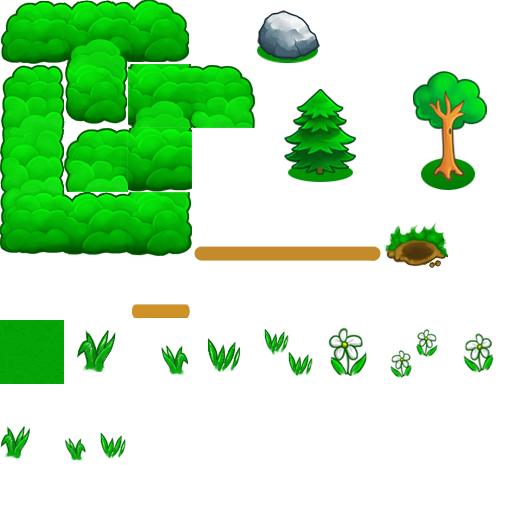
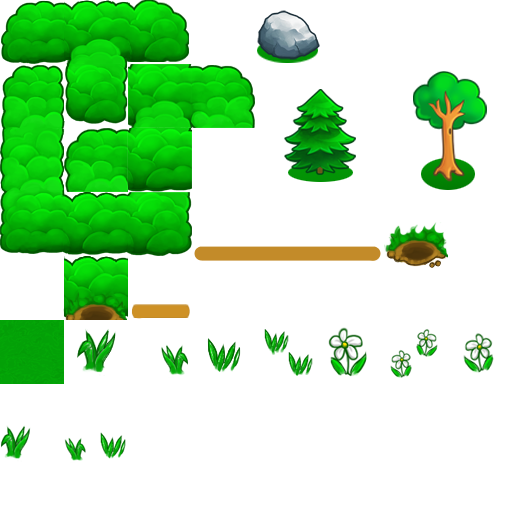
holes remake

Changed region(s): [[0.125, 0.5, 0.25, 0.625]]

diff --git a/megafoxhunt-server/src/net/megafox/game/GameSimulation.java b/megafoxhunt-server/src/net/megafox/game/GameSimulation.java
@@ -57,9 +57,6 @@ public class GameSimulation {
 	
 	private ArrayList<Entity> pickups;
 	public int getPickupsAmount(){return pickups.size();}
-	
-	private ArrayList<Entity> holes;
-	
 	public PlayerContainer playerContainer;
 
 	private Random random;
@@ -78,7 +75,6 @@ public class GameSimulation {
 		berries = new ArrayList<>();
 		powerups = new ArrayList<>();
 		pickups = new ArrayList<>();
-		holes = new ArrayList<>();
 		random = new Random();
 		timer = new Timer();
 	}
@@ -195,10 +191,6 @@ public class GameSimulation {
 	public void addPickupToRemove(PickupItem item){
 		removable.add(item);
 		gameMap.removeEntity(item);
-	}	
-	public void addHole(Hole hole) {
-		holes.add(hole);
-		playerContainer.sendObjectToAll(new AddHole(hole.getId(), hole.getX(), hole.getY()), hole.getVisibility());
 	}
 	
 	public void addHoleToRemove(Hole hole) {
@@ -291,37 +283,25 @@ public class GameSimulation {
 			addPickupToRemove(item);	
 		}
 	}
-	public void goToHole(PlayerConnection connection) {
-		if (connection.getEntity() instanceof Chased) {
-			connection.setGoInHole(true);
-			Entity playerEntity = connection.getEntity();
-			Entity targetEntity = gameMap.getEntity((int)playerEntity.getX(), (int)playerEntity.getY());
-			if (targetEntity instanceof Hole) {
-				holeCollisionDetected(playerEntity, (Hole)targetEntity);
-			}
-		}
-	}
 	
 	private void holeCollisionDetected(Entity entity, Hole hole) {
-		if(entity.getPlayer().isGoingInHole()){
-			if (!hole.isHoleCooldown()){
-				Entity targetHole = null;
-				while (targetHole == hole || targetHole == null) {
-					int i = random.nextInt(holes.size());
-					targetHole = holes.get(i);
-				}
-				
-				((Hole)targetHole).setHoleCooldown(true);
-				hole.setHoleCooldown(true);
-				
-				move(entity, targetHole.getX(), targetHole.getY(), Shared.DIRECTION_STOP, true);
-				playerContainer.sendObjectToAll(new Move(entity.getId(), Shared.DIRECTION_STOP, targetHole.getX(), targetHole.getY(), true), Visibility.BOTH);
-				
-				timer.schedule(new TimerListener(hole), 5000);
-				timer.schedule(new TimerListener(targetHole), 5000);	
+		if (!hole.isHoleCooldown()){
+			Entity targetHole = null;
+			while (targetHole == hole || targetHole == null) {
+				ArrayList<Hole> holes = gameMap.getHoles();
+				int i = random.nextInt(holes.size());
+				targetHole = holes.get(i);
 			}
-			entity.getPlayer().setGoInHole(false);
-		}				
+			
+			((Hole)targetHole).setHoleCooldown(true);
+			hole.setHoleCooldown(true);
+			
+			move(entity, targetHole.getX(), targetHole.getY() - 1, Shared.DIRECTION_STOP, true);
+			playerContainer.sendObjectToAll(new Move(entity.getId(), Shared.DIRECTION_STOP, targetHole.getX(), targetHole.getY() - 1, true), Visibility.BOTH);
+			
+			timer.schedule(new TimerListener(hole), 5000);
+			timer.schedule(new TimerListener(targetHole), 5000);	
+		}		
 	}
 	
 	class TimerListener extends TimerTask {
@@ -335,7 +315,8 @@ public class GameSimulation {
 
 		@Override
 		public void run() {
-			if (entity instanceof Hole)((Hole)entity).setHoleCooldown(false);			
+			if (entity == null) return;
+			else if (entity instanceof Hole)((Hole)entity).setHoleCooldown(false);			
 		}
 	}
 	class RageDeactivateTask extends TimerTask{

diff --git a/megafoxhunt-server/src/net/megafox/game/GameMapServerSide.java b/megafoxhunt-server/src/net/megafox/game/GameMapServerSide.java
@@ -7,11 +7,14 @@ import java.io.IOException;
 import java.io.InputStream;
 import java.io.InputStreamReader;
 import java.nio.charset.Charset;
+import java.util.ArrayList;
 
 import net.megafox.entities.Berry;
 import net.megafox.entities.Empty;
 import net.megafox.entities.Entity;
+import net.megafox.entities.Hole;
 import net.megafox.entities.Wall;
+import net.megafoxhunt.server.IDHandler;
 import net.megafoxhunt.shared.GameMapSharedConfig;
 
 public class GameMapServerSide {
@@ -33,8 +36,14 @@ public class GameMapServerSide {
 	private Entity[][] collisionMap;
 	public Entity[][] getCollisionMap(){return collisionMap;}
 	
-	public GameMapServerSide(GameMapSharedConfig mapConfig){
+	private ArrayList<Hole> holes;
+	
+	private IDHandler idHandler;
+	
+	public GameMapServerSide(GameMapSharedConfig mapConfig, IDHandler idHandler){
 		this.config = mapConfig;
+		this.idHandler = idHandler;
+		holes = new ArrayList<Hole>();
 		loadCollisionMap(config.getBinaryMapPath());
 	}
 	private void loadCollisionMap(String path){
@@ -53,7 +62,13 @@ public class GameMapServerSide {
 			        int n = Integer.parseInt(nums[col]);
 			        
 			        // (height - 1 - row) to flip y 
-			        collisionMap[col][(getHeight() - 1) - row] = (n == 0 ? EMPTY : WALL);
+			        if (n == 0) collisionMap[col][(getHeight() - 1) - row] = EMPTY;
+			        else if (n == 1) collisionMap[col][(getHeight() - 1) - row] = WALL;
+			        else if (n == 2)  {
+			        	Hole hole = new Hole(col, getHeight() - 1 - row, idHandler.getFreeID());
+			        	holes.add(hole);
+			        	collisionMap[col][(getHeight() - 1) - row] = hole;
+			        }
 			    }
 			    row++;
 			}
@@ -82,6 +97,9 @@ public class GameMapServerSide {
 	}
 
 	public void setEmpty(int x, int y) {
+		if (collisionMap[x][y] instanceof Hole) {
+			holes.remove(collisionMap[x][y]);
+		}
 		collisionMap[x][y] = EMPTY;
 	}
 	
@@ -94,11 +112,13 @@ public class GameMapServerSide {
 	}
 	
 	public boolean canExplode(int x, int y) {
-		if (x <= 0 || x >= (getWidth() - 1) || y <= 0 || y >= (getHeight() - 1)) return false;
-		
-		if (collisionMap[x][y] == WALL) return true;
+		if (collisionMap[x][y] == WALL || collisionMap[x][y] instanceof Hole) return true;
 		
 		return false;
+	}
+
+	public ArrayList<Hole> getHoles() {
+		return holes;
 	}
 }
 

diff --git a/megafoxhunt-server/src/net/megafox/gameroom/GameRoom.java b/megafoxhunt-server/src/net/megafox/gameroom/GameRoom.java
@@ -138,25 +138,6 @@ public class GameRoom extends Thread {
 		}
 	}
 	
-	public void generateHoles(int amount, IDHandler idHandler){
-		Random r = new Random();
-		Entity[][] collisionMap = currentMap.getCollisionMap();
-		
-		int x;
-		int y;		
-		
-		int holesAdded = 0;		
-		while(holesAdded < amount){
-			x = r.nextInt(currentMap.getWidth());
-			y = r.nextInt(currentMap.getHeight());
-			if(collisionMap[x][y].getClass().equals(Empty.class)){
-				Hole hole = new Hole(x, y, idHandler.getFreeID());
-				gameSimulation.addHole(hole);
-				currentMap.addEntity(hole);	
-				holesAdded++;
-			} 
-		}
-	}
 	public void addInitialPowerups(int amount, IDHandler idHandler){
 		Random r = new Random();
 		Entity[][] collisionMap = currentMap.getCollisionMap();
@@ -291,8 +272,8 @@ public class GameRoom extends Thread {
 	 * Set current map and inform players about the map
 	 * @param map
 	 */
-	public void changeMap(GameMapSharedConfig mapConfig){
-		currentMap = new GameMapServerSide(mapConfig);
+	public void changeMap(GameMapSharedConfig mapConfig, IDHandler idHandler){
+		currentMap = new GameMapServerSide(mapConfig, idHandler);
 		playerContainer.sendObjectToAll(new SetMap(currentMap.getName()));
 	}	
 	/**
@@ -358,9 +339,6 @@ public class GameRoom extends Thread {
 		return playerContainer;
 	}
 	
-	public void goToHole(PlayerConnection connection) {
-		gameSimulation.goToHole(connection);
-	}
 	/*
 	 * Removes all players from room
 	 */

diff --git a/megafoxrun/src/net/megafoxhunt/entities/EntityMovable.java b/megafoxrun/src/net/megafoxhunt/entities/EntityMovable.java
@@ -47,7 +47,7 @@ public abstract class EntityMovable extends Entity{
 	
 	private Move newMove;
 
-	private GameMapClientSide collisionMap;
+	protected GameMapClientSide collisionMap;
 	
 	private ConcurrentLinkedQueue<Move> movementQueue;
 	
@@ -111,10 +111,10 @@ public abstract class EntityMovable extends Entity{
 		else if (lastDirection == DIRECTION_DOWN) tmpY -= 1;
 		else if (lastDirection == DIRECTION_LEFT) tmpX -= 1;
 		
-		if (!collisionMap.isBlocked(destinationX, destinationY) && direction != DIRECTION_STOP) {
+		if (!isBlocked(destinationX, destinationY) && direction != DIRECTION_STOP) {
 			isMoving = true;
 			destinationDirection = direction;
-		} else if (!collisionMap.isBlocked(tmpX, tmpY) && direction != DIRECTION_STOP) {
+		} else if (!isBlocked(tmpX, tmpY) && direction != DIRECTION_STOP) {
 			isMoving = true;
 			destinationDirection = lastDirection;
 			destinationX = tmpX;
@@ -133,6 +133,10 @@ public abstract class EntityMovable extends Entity{
 				lastDirection = destinationDirection;
 			}
 		}
+	}
+	
+	protected boolean isBlocked(int destX, int destY) {
+		return collisionMap.isBlocked(destX, destY);
 	}
 	
 	private void moveTowardsDestination(float speed) {

diff --git a/megafoxrun/src/net/megafoxhunt/core/GameMapClientSide.java b/megafoxrun/src/net/megafoxhunt/core/GameMapClientSide.java
@@ -84,6 +84,8 @@ public class GameMapClientSide {
 	}
 	
 	public boolean isBlocked(int x, int y) {
+		if (x < 0 || x > config.getWidth() || y < 0 || y > config.getHeight()) return true;
+		
 		TiledMapTileLayer m = (TiledMapTileLayer) tiledMap.getLayers().get(TILEDMAP_COLLISION_LAYER);
 		Cell cell = m.getCell(x, y);
 
@@ -92,6 +94,17 @@ public class GameMapClientSide {
 		for (Barricade barricade : barricades) {
 			if (barricade.getX() == x && barricade.getY() == y) return true;
 		}
+		
+		return false;
+	}
+	
+	public boolean isHole(int x, int y) {
+		if (x < 0 || x > config.getWidth() || y < 0 || y > config.getHeight()) return false;
+		
+		TiledMapTileLayer m = (TiledMapTileLayer) tiledMap.getLayers().get(TILEDMAP_COLLISION_LAYER);
+		Cell cell = m.getCell(x, y);
+
+		if (cell != null && cell.getTile() != null && cell.getTile().getProperties().containsKey("hole")) return true;
 		
 		return false;
 	}

diff --git a/megafoxhunt-server/src/net/megafoxhunt/server/ServerRooms.java b/megafoxhunt-server/src/net/megafoxhunt/server/ServerRooms.java
@@ -48,11 +48,10 @@ public class ServerRooms {
 	}
 	public void startGame(GameRoom room){	
 		if(room.getRoomState() == GameRoom.STATE_LOBBY){
-			room.changeMap(GameMapSharedConfig.TEST_MAP);	
+			room.changeMap(GameMapSharedConfig.TEST_MAP, gameServer.idHandler);	
 			room.startSimulation(gameServer.idHandler);		
 			room.setChasedsAndChasers();
 			room.generateBerries(GameMapServerSide.TOTAL_BERRIES, gameServer.idHandler);
-			room.generateHoles(GameMapServerSide.TOTAL_HOLES, gameServer.idHandler);
 			room.addInitialPowerups(GameMapSharedConfig.DEBUG_MAP.getMaxPowerups(), gameServer.idHandler);
 			room.addInitialPickupItems(GameMapSharedConfig.DEBUG_MAP.getMaxPickupItems(), gameServer.idHandler);
 			room.switchState(GameRoom.STATE_GAME);

diff --git a/megafoxhunt-server/src/net/megafox/entities/Entity.java b/megafoxhunt-server/src/net/megafox/entities/Entity.java
@@ -71,11 +71,14 @@ public class Entity {
 	}
 	
 	private boolean collidesWithMap(int x, int y, GameMapServerSide map){
-		if(x > 0 && x < map.getWidth() && y > 0 && y < map.getHeight()){
+		if(x >= 0 && x < map.getWidth() && y >= 0 && y < map.getHeight()){
 			Entity[][] collisionMap = map.getCollisionMap();
 			if(collisionMap[x][y].getClass().equals(Wall.class)){
 				return true;					
-			} else{
+			} else if (collisionMap[x][y].getClass().equals(Hole.class)) {
+				if (((Hole)collisionMap[x][y]).isHoleCooldown()) return true;
+				else return false;
+			}else{
 				return false;
 			}
 		}

diff --git a/megafoxrun/src/net/megafoxhunt/entities/Chased.java b/megafoxrun/src/net/megafoxhunt/entities/Chased.java
@@ -74,4 +74,15 @@ public class Chased extends EntityMovable{
 		else 
 			batch.draw(currentFrame, x - 0.33f, y, 1.6f, 1.0f);
 	}
+	
+	@Override
+	protected boolean isBlocked(int destX, int destY) {
+		if (direction == DIRECTION_UP && collisionMap.isHole((int)x, (int)y)) return true;
+		
+		if (collisionMap.isHole(destX, destY) && direction == DIRECTION_UP) return false;
+		
+		if (collisionMap.isBlocked(destX, destY)) return true;
+		
+		return false;
+	}
 }

diff --git a/megafoxhunt-server/src/net/megafoxhunt/server/GameServer.java b/megafoxhunt-server/src/net/megafoxhunt/server/GameServer.java
@@ -92,7 +92,6 @@ public class GameServer {
 				 * GO IN HOLE
 				 */
 				else if (object instanceof GoInHole) {
-					playerConnection.getMyCurrentRoom().goToHole(playerConnection);
 				}
 			}
 			
